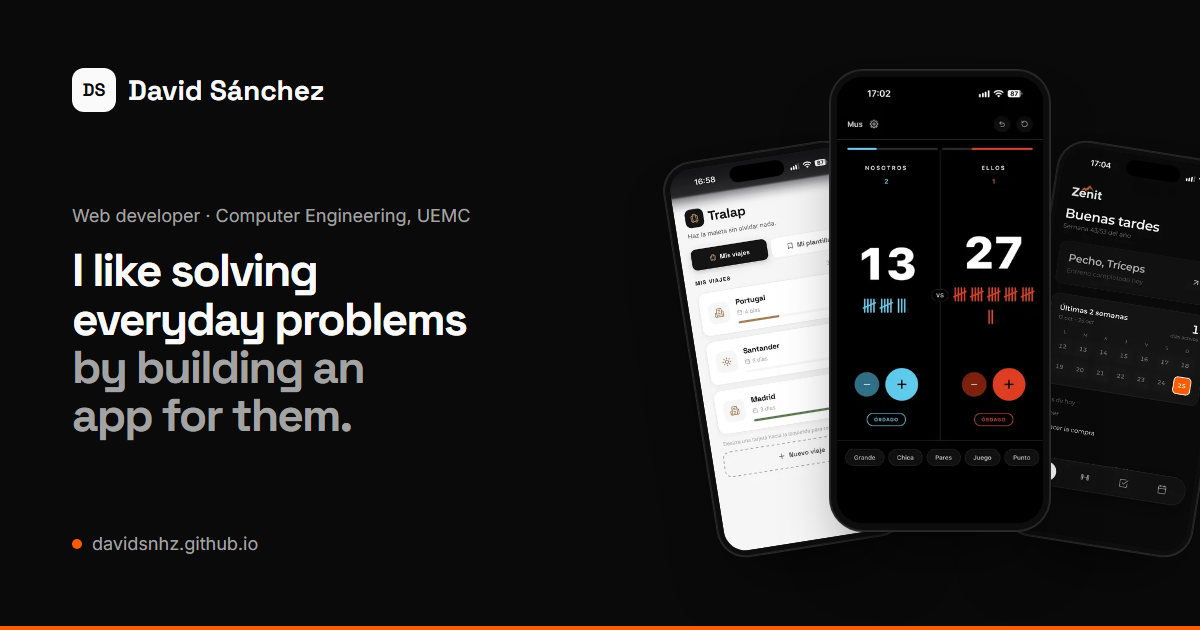
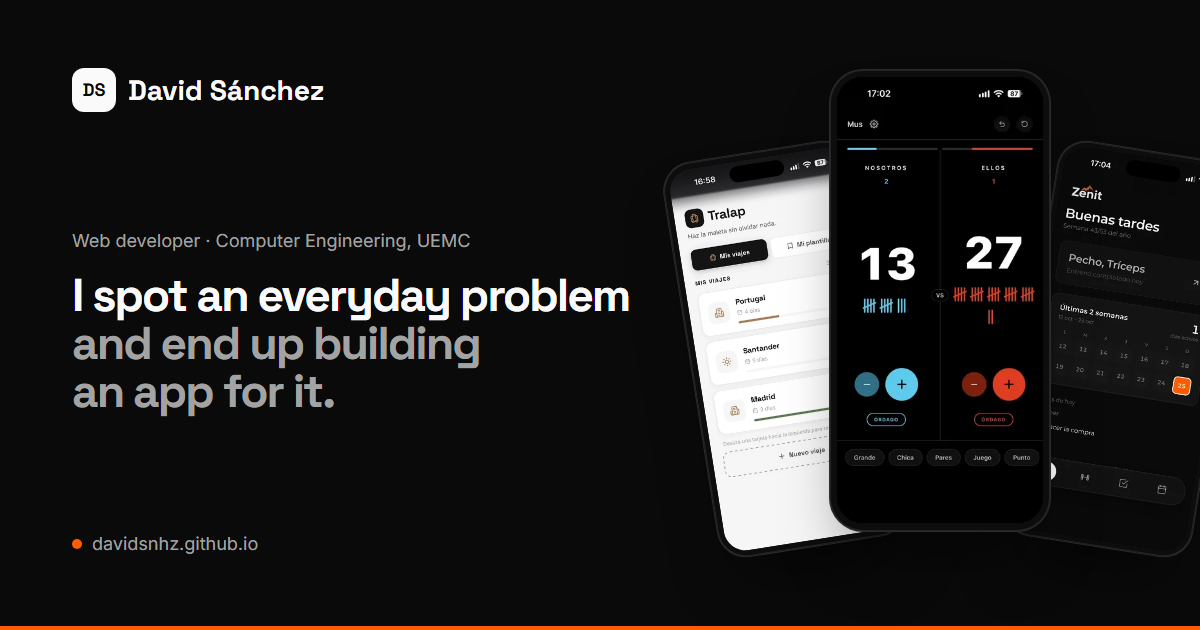
content: titular definitivo del hero
- ES: "Veo un problema en el día a día y acabo haciéndole una app."
- EN: "I spot an everyday problem and end up building an app for it."
- Regenera las imágenes Open Graph

Changed region(s): [[0.0617, 0.3317, 0.5242, 0.6937]]

diff --git a/src/i18n/ui.ts b/src/i18n/ui.ts
@@ -21,8 +21,8 @@ const es = {
   'id.contact': 'contacto',
 
   'hero.role': 'Desarrollador web · Ingeniería Informática, UEMC',
-  'hero.title.a': 'Me gusta resolver problemas del día a día',
-  'hero.title.b': 'haciéndoles una app.',
+  'hero.title.a': 'Veo un problema en el día a día',
+  'hero.title.b': 'y acabo haciéndole una app.',
   'hero.text':
     'Estudio 3º de Ingeniería Informática y me encanta todo lo que tiene que ver con la informática y la IA. Por ahora he hecho un marcador para jugar al mus, una app para hacer la maleta sin dejarte nada y otra para llevar el gimnasio al día.',
   'hero.cta.projects': 'Ver proyectos',
@@ -99,8 +99,8 @@ const en: Record<UiKey, string> = {
   'id.contact': 'contact',
 
   'hero.role': 'Web developer · Computer Engineering, UEMC',
-  'hero.title.a': 'I like solving everyday problems',
-  'hero.title.b': 'by building an app for them.',
+  'hero.title.a': 'I spot an everyday problem',
+  'hero.title.b': 'and end up building an app for it.',
   'hero.text':
     "I'm a third-year Computer Engineering student and I love anything to do with computing and AI. So far I've built a scorekeeper for playing mus (a Spanish card game), an app to pack your suitcase without forgetting anything and another one to keep my gym routine on track.",
   'hero.cta.projects': 'See projects',
